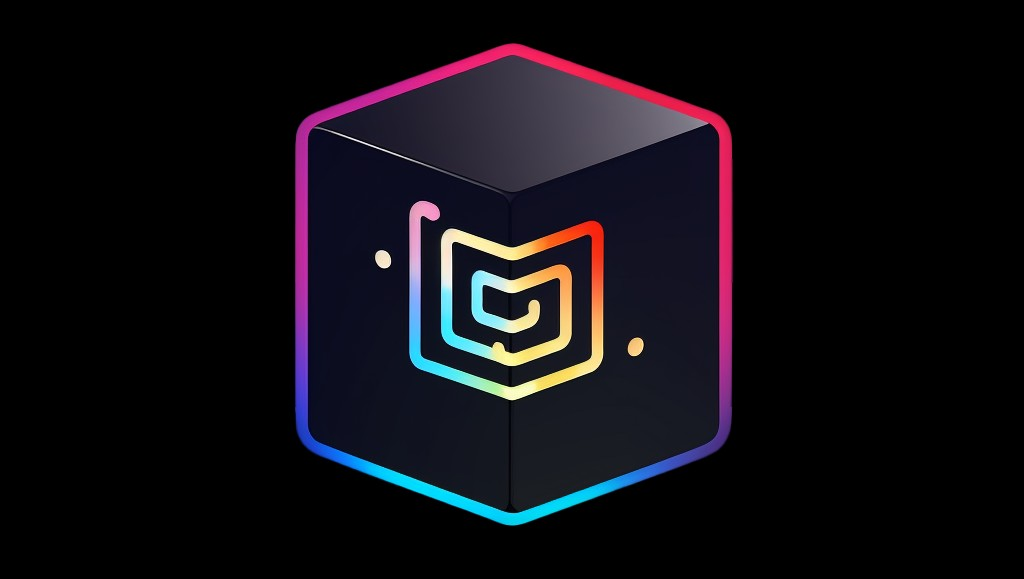
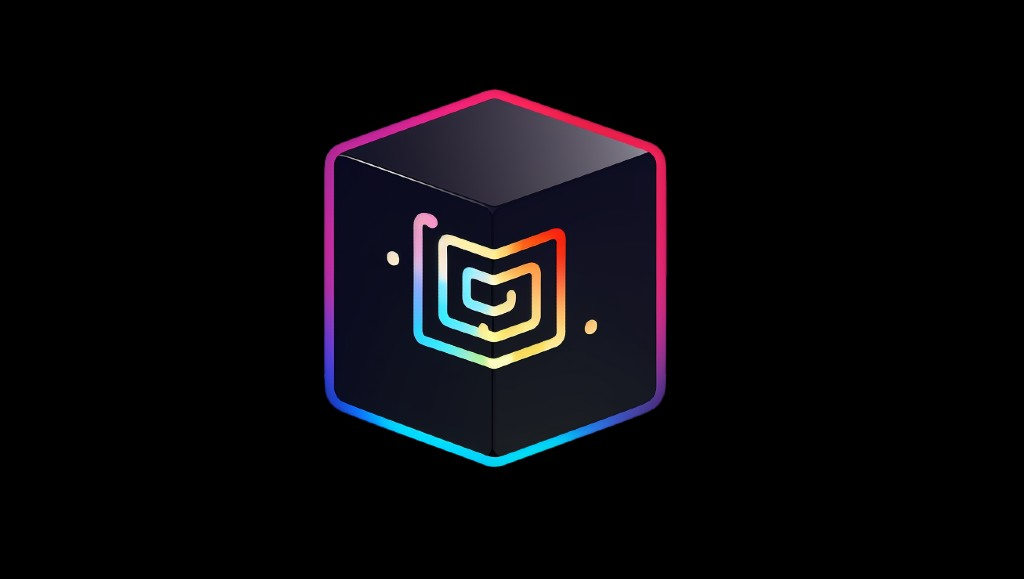
try share link preview

Changed region(s): [[0.2812, 0.0622, 0.7188, 0.9016]]

diff --git a/index.html b/index.html
@@ -18,7 +18,7 @@
     />
     <meta
       property="og:image"
-      content="https://instapatentsharelink.vercel.app/img/instapatent_wide.png"
+      content="https://instapatentsharelink.vercel.app/img/instapatent_wide.jpg"
     />
     <!-- Twitter -->
     <meta property="twitter:card" content="summary_large_image" />
@@ -33,7 +33,7 @@
     />
     <meta
       property="twitter:image"
-      content="https://instapatentsharelink.vercel.app/img/instapatent_wide.png"
+      content="https://instapatentsharelink.vercel.app/img/instapatent_wide.jpg"
     />
     <meta
       name="description"
